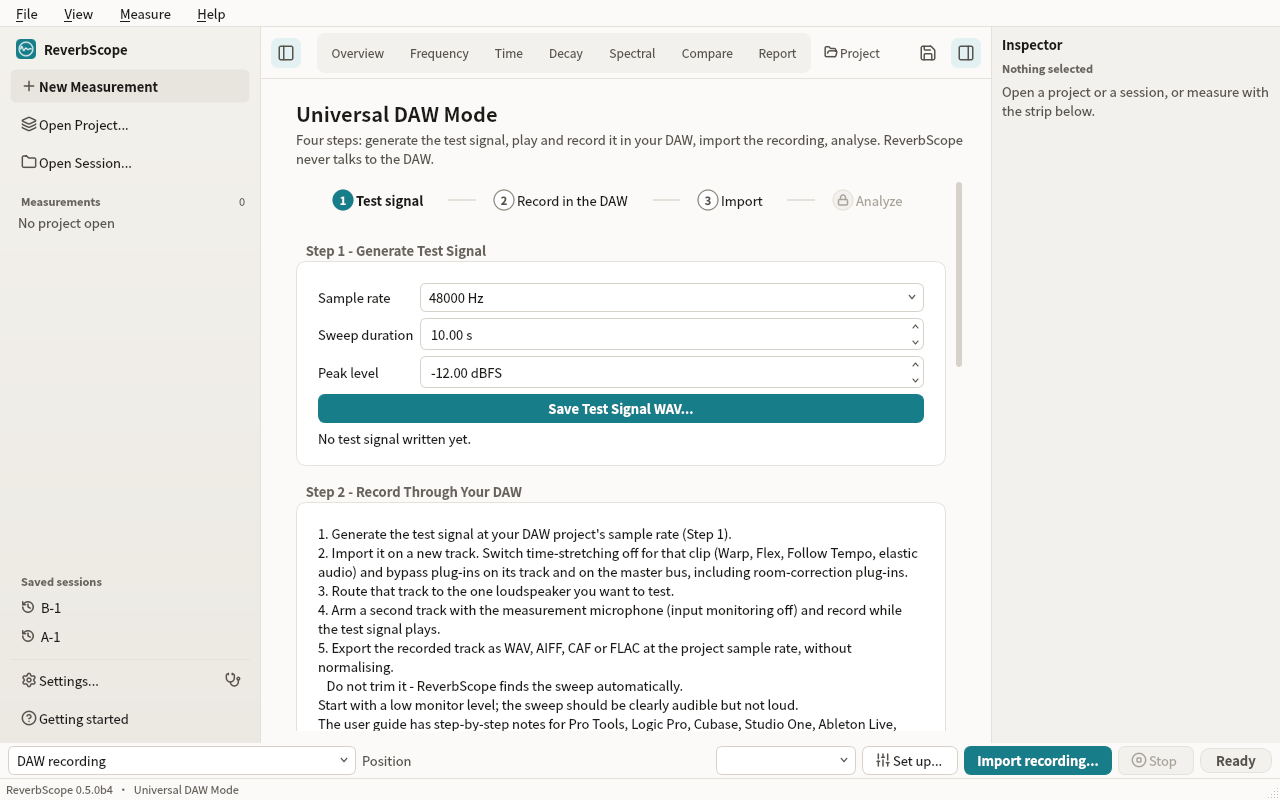
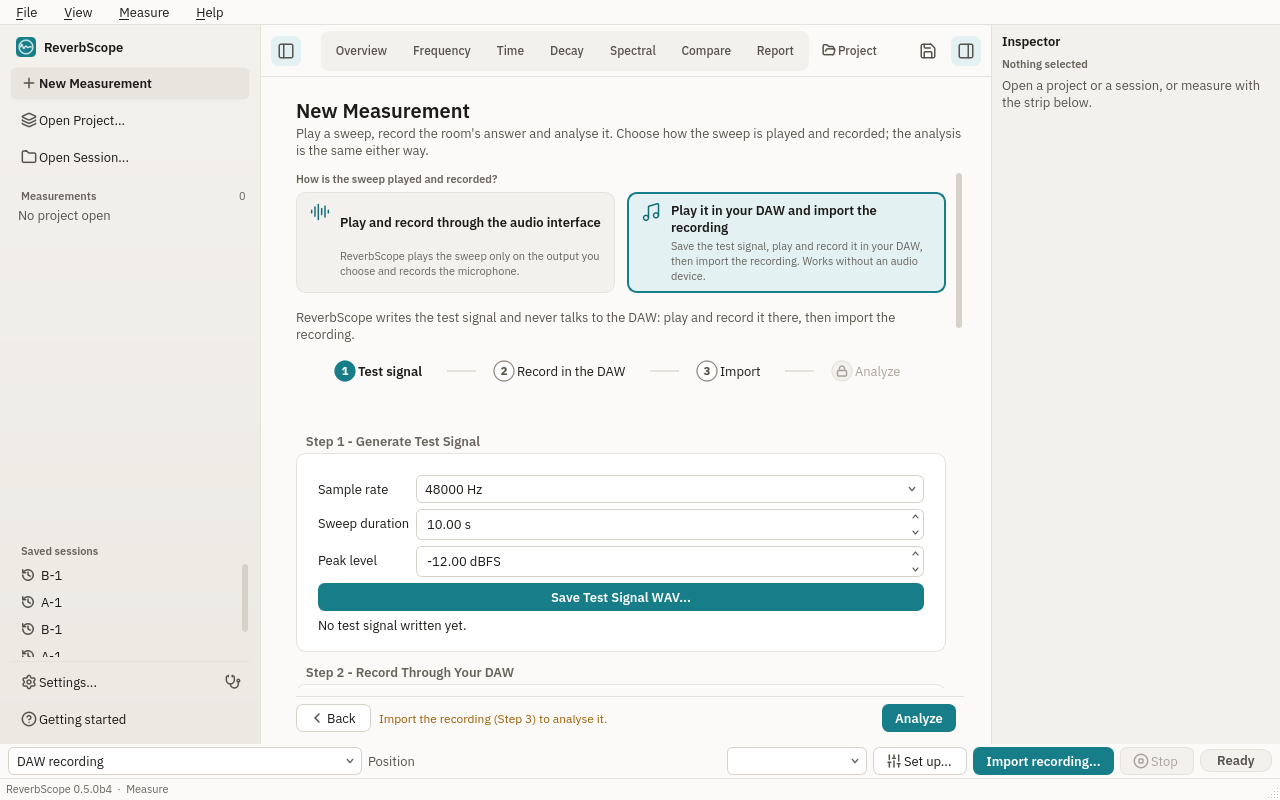
Docs, templates and screenshots for the one New Measurement page
Rename the remaining user-facing "Universal DAW Mode" / "Standalone Mode"
wording in the changelog, design docs, issue templates, release-notes
headers, dependency notes, comparison page and docstrings to the two ways
offered on the New Measurement page. Regenerate the light-sidebar
screenshots and fix a mypy complaint in main_window.py.

Assisted-by: Hark

diff --git a/src/reverbscope/audio/backend.py b/src/reverbscope/audio/backend.py
@@ -1,7 +1,7 @@
 """Audio-backend protocol, device record and backend selection.
 
 ``core`` never imports this module. Front ends call :func:`get_backend` so
-Standalone Mode can run against PortAudio or the synthetic ``fake`` backend.
+A take through the audio interface can run against PortAudio or the synthetic ``fake`` backend.
 """
 
 from __future__ import annotations
@@ -131,7 +131,7 @@ class AudioBackend(Protocol):
 
 @dataclass(frozen=True)
 class ChannelPlan:
-    """How Standalone Mode's hardware inputs map onto the analysed recording.
+    """How the hardware inputs of a take through the interface map onto the analysed recording.
 
     Two conventions meet here and must not be mixed: hardware channels of the
     interface are **1-based** (what the user reads on the front panel and what

diff --git a/src/reverbscope/__init__.py b/src/reverbscope/__init__.py
@@ -5,7 +5,7 @@ The package is organised core-first:
 * :mod:`reverbscope.core` -- pure DSP functions (sweep, deconvolution, decay, ...).
 * :mod:`reverbscope.models` -- data models (settings, results, measurement session).
 * :mod:`reverbscope.io` -- WAV and session storage.
-* :mod:`reverbscope.audio` -- optional audio device access for Standalone Mode.
+* :mod:`reverbscope.audio` -- optional audio device access for takes through the audio interface.
 * :mod:`reverbscope.interpretation` -- recording-engineer oriented explanations.
 * :mod:`reverbscope.cli` / :mod:`reverbscope.ui` -- thin front ends over the core.
 

diff --git a/src/reverbscope/edition.py b/src/reverbscope/edition.py
@@ -4,7 +4,7 @@ One code base, two defaults:
 
 * **developer** — a source checkout or a ``pip`` install: debugging tools are
   on (the GUI's Developer menu with the audio-device inspector and the
-  environment report, advanced stream options in Standalone Mode). Developers
+  environment report, advanced stream options for takes through the audio interface). Developers
   extend ReverbScope through its entry points (``reverbscope.exporters``) and the
   Python API.
 * **user** — the desktop bundles and installers: the same measurement, with

diff --git a/src/reverbscope/ui/main_window.py b/src/reverbscope/ui/main_window.py
@@ -132,8 +132,8 @@ class MainWindow(QMainWindow):
         self.workspace = AnalysisWorkspace(views)
         #: The workspace's stack: start panel, set-up pages, every view.
         self.stack = self.workspace.stack
-        for page in (self.home, self.measure):
-            self.workspace.add_page(page)
+        for setup in (self.home, self.measure):
+            self.workspace.add_page(setup)
         self.views = self.workspace.views
         compare = self.views["compare"]
         project = self.views["project"]

diff --git a/src/reverbscope/demo.py b/src/reverbscope/demo.py
@@ -1,6 +1,6 @@
 """Synthetic demo: try the whole workflow without an interface or a microphone.
 
-:func:`run_demo` writes the same files a real Universal DAW Mode measurement
+:func:`run_demo` writes the same files a real measurement played in a DAW
 produces -- a sweep WAV with its sidecar and one "recorded" WAV per microphone
 position -- but the recordings are *simulated*: the sweep is convolved with a
 made-up room impulse response and noise is added. Both positions are then

diff --git a/src/reverbscope/diagnostics.py b/src/reverbscope/diagnostics.py
@@ -179,7 +179,7 @@ def audio_callback_check() -> str:
     and executable for it, which the macOS hardened runtime refuses unless
     the app has ``com.apple.security.cs.allow-unsigned-executable-memory``
     (cffi documentation, "Callbacks (old style)"); SELinux can refuse it too.
-    A failure here means Standalone Mode cannot record.
+    A failure here means a take through the audio interface cannot record.
     """
     try:
         import _cffi_backend

diff --git a/src/reverbscope/audio/__init__.py b/src/reverbscope/audio/__init__.py
@@ -1,4 +1,4 @@
-"""Audio device access for Standalone Mode (optional; needs ``sounddevice``)."""
+"""Audio device access for takes through the audio interface (optional; needs ``sounddevice``)."""
 
 from __future__ import annotations
 

diff --git a/docs/design/light-sidebar/IMPLEMENTATION.md b/docs/design/light-sidebar/IMPLEMENTATION.md
@@ -8,7 +8,7 @@
 > 位置写法：**侧栏**（左栏）、**工具栏**（52 px 统一工具栏，含分段视图组）、
 > **检查器**（右栏，宽度 < 1100 px 时默认收起）、**测量栏**（底部的设备与
 > 开始/停止条）、**菜单**（文件 / 视图 / 测量 / 帮助 / 开发者）、**起始面板**、
-> **独立模式页**、**DAW 模式页**。快捷键写 Windows/Linux 形式，macOS 上
+> **新测量页**（顶部选择「通过音频接口播放并录音」或「在 DAW 中播放，导入录音」，下方是该方式的步骤、两种方式共用的测量信息与录音配置，以及固定在底部的操作栏；下文的「接口步骤」「DAW 步骤」指两种方式各自的部分）。快捷键写 Windows/Linux 形式，macOS 上
 > Ctrl 显示为 ⌘。
 >
 > 截图在 [docs/images/gui-light-sidebar/](../../images/gui-light-sidebar/)，由
@@ -26,18 +26,18 @@
 
 | # | 能力 | 状态 | 界面位置 |
 |---|---|---|---|
-| A1 | ESS 扫频生成 | GUI | 独立模式页 ▸ 测试信号（时长、峰值电平、采样率）；DAW 模式页 ▸ 步骤 1「保存测试信号 WAV…」；测量栏 ▸ 采样率 |
-| A2 | 独立模式 | GUI | 起始面板卡片「音频接口」；测量 ▸ 独立模式（Ctrl+Shift+2）；测量栏模式「音频接口」；独立模式页步骤条「连接设备 → 信号与电平 → 测量」。输出设备不预选、不提供“系统默认”，未选输出时开始按钮禁用并在页面和测量栏写明原因（页面的「返回 · 原因 · 停止 · 开始测量」是固定在滚动区下方的操作栏，960×640 也在视野内；原因在按钮之间放不下两行时移到按钮上方），`start_measurement` 本身也拒绝（OUT-1…5）；合成演示 / fake 后端不受此限制 |
-| A3 | 电平安全确认 SAFE | GUI | 独立模式页 ▸ 测试信号：高于 −12 dBFS 时出现确认条和复选框，开始按钮原因逐字引用该复选框；任何电平改动、新建测量、停止都会清除确认（D-7） |
+| A1 | ESS 扫频生成 | GUI | 新测量页 ▸ 接口步骤 ▸ 测试信号（时长、电平）、DAW 步骤 ▸ 步骤 1「保存测试信号 WAV…」；两种方式的采样率和扫频时长互相跟随；测量栏 ▸ 采样率 |
+| A2 | 通过音频接口播放并录音 | GUI | 起始面板卡片「音频接口」；测量 ▸ 通过音频接口播放并录音（Ctrl+Shift+2）；新测量页顶部卡片；测量栏列表「音频接口」；接口步骤条「连接设备 → 信号与电平 → 测量」。没有任何设备时原因写「未找到音频设备；仍可导入录音。」并显示「改为导入录音」按钮。输出设备不预选、不提供“系统默认”，未选输出时开始按钮禁用并在页面和测量栏写明原因（页面的「返回 · 原因 · 停止 · 开始测量」是固定在滚动区下方的操作栏，960×640 也在视野内；原因在按钮之间放不下两行时移到按钮上方），`start_measurement` 本身也拒绝（OUT-1…5）；合成演示 / fake 后端不受此限制 |
+| A3 | 电平安全确认 SAFE | GUI | 新测量页 ▸ 接口步骤 ▸ 测试信号：高于 −12 dBFS 时出现确认条和复选框，开始按钮原因逐字引用该复选框；任何电平改动、新建测量、停止都会清除确认（D-7） |
 | A4 | 双设备时钟警告 | GUI | 输入、输出不是同一设备时开始前弹出警告，默认按钮“不测” |
-| A5 | 通用 DAW 模式（4 步） | GUI | 起始面板卡片「DAW 录音」；测量 ▸ 通用 DAW 模式（Ctrl+Shift+1）；测量栏模式「DAW 录音」+「导入录音…」；DAW 模式页四个步骤组 + 步骤条（第 4 步在导入录音前显示锁） |
-| A6 | DAW 设置提示表 | GUI | DAW 模式页 ▸ 步骤 2 说明；测量健康的修复步骤 |
+| A5 | 在 DAW 中播放，导入录音（4 步） | GUI | 起始面板卡片「DAW 录音」；测量 ▸ 在 DAW 中播放，导入录音（Ctrl+Shift+1）；新测量页顶部卡片；测量栏列表「DAW 录音」+「导入录音…」；DAW 步骤 1–3 + 步骤条（第 4 步「分析」= 共用的测量信息与固定操作栏里的「分析」，导入录音前显示锁并在按钮旁写明原因）；不需要音频设备或 PortAudio |
+| A6 | DAW 设置提示表 | GUI | 新测量页 ▸ DAW 步骤 2 说明；测量健康的修复步骤 |
 | A7 | 导入外部脉冲响应 | CLI | `reverbscope analyze-ir`，GUI 不画入口；工具栏 ▸ 报告 ▸「仅命令行」列出可复制的命令 |
-| A8 | 测量进度 | GUI | 测量栏进度条和阶段文字；独立模式页进度条；运行中的忙碌锁（BUSY）锁住新建、打开、保存、设置，并给出原因 |
+| A8 | 测量进度 | GUI | 测量栏进度条和阶段文字；新测量页进度条；运行中的忙碌锁（BUSY）锁住新建、打开、保存、设置和页面顶部的方式选择，并给出原因 |
 | A9 | 实时波形 / 电平表 / 输入预检 | 未实现 | — |
-| A10 | 卷尺测量 | GUI | 独立模式页和 DAW 模式页步骤 4 ▸ 摆位输入（扬声器距离、话筒高度、气温） |
-| A11 | 测量元数据 | GUI | 独立模式页、DAW 模式页 ▸「测量元数据（可选）」；测量栏 ▸ 位置 |
-| A12 | 回采补偿 | GUI | 独立模式页 ▸ 音频设备 ▸ 回采声道；测量栏「高级」▸ 回采声道；DAW 模式页步骤 3 ▸ 回采声道；检查器 ▸ 测量条件 |
+| A10 | 卷尺测量 | GUI | 新测量页 ▸ 共用的「卷尺测量（可选）」（扬声器距离、话筒高度、气温） |
+| A11 | 测量元数据 | GUI | 新测量页 ▸ 共用的「测量元数据（可选）」；测量栏 ▸ 位置 |
+| A12 | 回采补偿 | GUI | 新测量页 ▸ 接口步骤 ▸ 音频设备 ▸ 回采声道；测量栏「高级」▸ 回采声道；DAW 步骤 3 ▸ 回采声道；检查器 ▸ 测量条件 |
 | A13 | 播放速度诊断 | GUI | 测量健康（总览、检查器）里的“播放速度”项 |
 | A14 | 演示 / 合成数据 | CLI | `reverbscope demo`（报告 ▸「仅命令行」列出）；打开的合成会话在侧栏、检查器和页面横幅上标“合成” |
 
@@ -68,7 +68,7 @@
 | C1 | 测量健康（10 项） | GUI | 总览 ▸ 测量健康；检查器 ▸ 测量健康 |
 | C2 | 健康 → 视图跳转 | GUI | 健康项旁的「显示 <视图>」按钮（总览、检查器） |
 | C3 | 分析失败指引 | GUI | 分析失败时的错误对话框和页面状态行（`workers.py` 调 `failure_guidance`） |
-| C4 | 录音配置（7 种） | GUI | 独立模式页 ▸ 测试信号、DAW 模式页步骤 4 ▸ 录音配置 +「它看什么？」；起始面板底部配置说明；项目视图 ▸ 配置；设置 ▸ 默认配置 |
+| C4 | 录音配置（7 种） | GUI | 新测量页 ▸ 共用的「分析」▸ 录音配置 +「它看什么？」；起始面板底部配置说明；项目视图 ▸ 配置；设置 ▸ 默认配置 |
 | C5 | 解读 findings | GUI | 总览；检查器 |
 | C6 | 用户类型 | 未实现 | — |
 
@@ -131,13 +131,13 @@ FEATURES.md 的统计写的是 52 项；它的表里实际是 53 行（A14、B15
 | `save` | 工具栏右 | 保存会话（Ctrl+S） |
 | `folder-open` | 工具栏「项目」 | 项目视图（Ctrl+8） |
 | `chevron-down` | 工具栏（窄窗口） | 视图组放不下时，末尾的组收进这个“全部视图”菜单（当前组不收），工具栏不横向滚动 |
-| `audio-lines` | 起始面板卡片「音频接口」 | 独立模式页 |
-| `music` | 起始面板卡片「DAW 录音」 | DAW 模式页 |
+| `audio-lines` | 起始面板卡片「音频接口」；新测量页顶部卡片 | 通过音频接口播放并录音 |
+| `music` | 起始面板卡片「DAW 录音」；新测量页顶部卡片 | 在 DAW 中播放，导入录音 |
 | `git-compare` | 起始面板「对比两个会话…」 | 对比视图 |
 | `mic` | 起始面板底部 | 录音配置说明（只是标记） |
 | `sliders-vertical` | 测量栏「设置…」 | 打开当前模式的设置页 |
-| `square-stop` | 测量栏、独立模式页「停止」 | 停止并静音输出（Esc） |
-| `chevron-left` | 独立模式页「返回」 | 回到之前的视图；没有打开的测量时回到起始面板 |
+| `square-stop` | 测量栏、新测量页「停止」 | 停止并静音输出（Esc） |
+| `chevron-left` | 新测量页「返回」 | 回到之前的视图；没有打开的测量时回到起始面板 |
 | `check` / `activity` | 步骤条；复选框 | 已完成 / 进行中 |
 | `copy` | 报告 ▸「复制命令」 | 把“仅命令行”的命令复制到剪贴板 |
 | `circle-check` / `info` / `triangle-alert` / `circle-x` | 浮动提示 | 提示的语气（完成 / 说明 / 注意 / 错误），文字另写 |
@@ -176,7 +176,7 @@ cherry-pick：
 | 检查器里可见的「设为基准」 | 检查器 ▸ 对比，没有基准时显示按钮 | `test_the_inspector_offers_use_as_baseline` |
 | 报告里列出 CLI 专有功能的命令 | 报告 ▸「仅命令行」，按平台加引号，「复制命令」 | `test_cli_commands_*`、`test_every_listed_command_is_a_real_cli_command` |
 | 测量名中间省略 | 工具栏副标题（当前测量名）中间省略；侧栏列表本来就是中间省略 | `test_the_measurement_name_elides_in_the_middle` |
-| 960×640 中文下开始按钮的原因可见 | 独立模式页操作栏固定在滚动区外（SPEC §8.1），窄时原因移到按钮上方 | `test_the_run_reason_is_in_view_at_960_by_640` |
+| 960×640 中文下开始按钮的原因可见 | 新测量页操作栏固定在滚动区外（SPEC §8.1），窄时原因移到按钮上方 | `test_the_run_reason_is_in_view_at_960_by_640` |
 | 关键数值 / 读数用等宽字体；刻度文字变淡 | 读数、刻度（11 px）、检查器关键数值用已安装的等宽字体；刻度本来就是 `muted` 色 | `test_readouts_use_an_installed_monospace_face` |
 | （#97 遗留）窄窗口当前是“项目”时最左的组被截 | 放不下的组从末尾收进“全部视图”，当前组不收，工具栏不滚动 | `test_no_view_tab_is_cut_whichever_view_is_current` |
 

diff --git a/docs/design/GUI_2_ARCHITECTURE.md b/docs/design/GUI_2_ARCHITECTURE.md
@@ -69,8 +69,9 @@ to the command line.
   splitter state that does not restore, or that leaves the chart under
   320 px, is replaced by the default sizes.
 * `MainWindow.stack` is the workspace's `QStackedWidget`. It holds the start
-  panel, the two measurement set-up pages (Universal DAW Mode and Standalone
-  Mode), every analysis view, the project view and the compare view. The
+  panel, the one New Measurement page (`MeasurePage`: a choice of how the
+  sweep is played and recorded, the steps of that way in, shared details and
+  a pinned action bar), every analysis view, the project view and the compare view. The
   product GUI has no Demo mode. `show_mode("demo")` remains for tests and
   the fake backend; it is not in the Measure menu, the strip, or the
   first-measurement card.
@@ -81,11 +82,12 @@ to the command line.
   `default_views()`; `Ctrl+0` opens Compare. The view bar groups them
   (Overview, Frequency, Time, Decay, Spectral, Compare, Report).
   Spectral has a second selector for the spectrogram, the waterfall and
-  noise. Project is a separate button, not an analysis group. The
-  measurement set-up pages are `Ctrl+Shift+1` (Universal DAW Mode) and
-  `Ctrl+Shift+2` (Standalone Mode). `QKeySequence` is used so macOS shows
+  noise. Project is a separate button, not an analysis group. The Measure
+  menu opens New Measurement on either way in: `Ctrl+Shift+1` (play in your
+  DAW, import the recording) and `Ctrl+Shift+2` (play and record through the
+  audio interface). `QKeySequence` is used so macOS shows
   Command where other systems show Ctrl.
-* Switching views never stops a take. The Standalone page used to stop the
+* Switching views never stops a take. The interface page used to stop the
   take when it was hidden; the measure strip now carries Stop (and `Esc`),
   so the take keeps running while the user looks at another view.
 
@@ -106,10 +108,11 @@ is added to the list beside the take, and a project keeps the unsaved take
 take replaces the previous one once the previous one is saved or
 discarded.
 
-The measure strip mirrors the active set-up page: its device, rate and
+The measure strip mirrors the New Measurement page: its device, rate and
 channel controls share the page's models, so a choice in either place is
 the same choice. **Set up...** opens the page for what the strip does not
-carry (sweep length, level, tape measurements, the DAW files). In DAW mode
+carry (sweep length, level, tape measurements, the DAW files). Its list
+("Audio interface", "DAW recording") is the page's choice. On the DAW way in
 Start reads "Import recording..." and analyses the chosen files. Choosing a
 position in the navigator's menu ("Measure at …") or in the project view
 fills the strip's position and the pages' position and room fields. The

diff --git a/docs/design/light-sidebar/FEATURES.md b/docs/design/light-sidebar/FEATURES.md
@@ -9,10 +9,10 @@
 | # | 能力 | 源码 file:function | 输出 / 参数（单位、默认、范围） | GUI(main) | #91 |
 |---|---|---|---|---|---|
 | A1 | 指数正弦扫频 ESS 生成 | `core/sweep.py:generate_ess`, `measurement_signal`; `models/configuration.py:SweepSettings` | 20 Hz–20 kHz；时长默认 10 s（GUI 1–60 s）；峰值 −12 dBFS（GUI −40…0）；淡入 50 ms / 淡出 10 ms；前静音 1 s、后静音 3 s；采样率 44.1/48/88.2/96/176.4/192 kHz | ✓ | 02、03、12a |
-| A2 | 独立模式（音频接口播放+录音） | `ui/pages.py:StandalonePage`; `audio/playrec.py`; `audio/portaudio.py` | 输入/输出设备、输入声道（话筒）、输出声道（扬声器）、回采声道、采样率；独立模式默认电平 −20 dBFS（`audio/backend.py:DEFAULT_STANDALONE_LEVEL_DBFS`） | ✓ | 02、02b、03、04 |
+| A2 | 通过音频接口播放并录音 | `ui/pages.py:StandalonePage`; `audio/playrec.py`; `audio/portaudio.py` | 输入/输出设备、输入声道（话筒）、输出声道（扬声器）、回采声道、采样率；通过音频接口播放的默认电平 −20 dBFS（`audio/backend.py:DEFAULT_STANDALONE_LEVEL_DBFS`） | ✓ | 02、02b、03、04 |
 | A3 | 电平安全确认（SAFE） | `audio/backend.py:SAFE_MAX_LEVEL_DBFS = −12`; `ui/pages.py` 复选框 | 高于 −12 dBFS 必须勾选“我已调低监听音量”；`settings.save_settings` 永不保存确认 | ✓ | 03、10b |
 | A4 | 双设备时钟警告 | `ui/pages.py:separate_clocks_box` | 输入、输出不是同一设备时警告，默认按钮是“不测” | ✓ | 02（就绪检查“同一设备，一个时钟”） |
-| A5 | 通用 DAW 模式（4 步） | `ui/pages.py:DawModePage`, `DAW_INSTRUCTIONS`; `io/wav.py:write_sweep_file` | 步骤 1 生成测试信号 / 2 在 DAW 中录制 / 3 导入录音（录音、参考扫频、话筒声道“自动（电平最高）”、回采声道）/ 4 分析（录音配置） | ✓ | 12a、12b、12c |
+| A5 | 在 DAW 中播放，导入录音（4 步） | `ui/pages.py:DawModePage`, `DAW_INSTRUCTIONS`; `io/wav.py:write_sweep_file` | 步骤 1 生成测试信号 / 2 在 DAW 中录制 / 3 导入录音（录音、参考扫频、话筒声道“自动（电平最高）”、回采声道）/ 4 分析（录音配置） | ✓ | 12a、12b、12c |
 | A6 | DAW 设置提示表 | `health.py:DAW_SAMPLE_RATE_SETTINGS`, `DAW_STRETCH_SETTINGS` | 各 DAW 设采样率、关时间伸缩的位置 | ✓（健康修复步骤里） | 12b |
 | A7 | 导入外部脉冲响应 | `core/pipeline.py:analyze_impulse_response`; CLI `analyze-ir` | 不反卷积 | **CLI** | 不画入口（已从首页移除） |
 | A8 | 测量进度 | `ui/pages.py` `QProgressBar` 0–100 | 只有百分比 | ✓ | 04 |

diff --git a/CHANGELOG.md b/CHANGELOG.md
@@ -22,8 +22,8 @@ All notable changes to ReverbScope are documented here. The format follows
   desktop Decay view and a "Decay slopes" row in the inspector). EDT, T20,
   T30, RT60 and every other number are unchanged. Methodology §3c, ADR 0004.
 - **One-third-octave decay bands (opt-in).** `--third-octave` on `analyze`,
-  `measure` and `analyze-ir`, and a check box on both desktop measurement
-  pages, add the IEC 61260-1 one-third-octave bands inside the octave bands
+  `measure` and `analyze-ir`, and a check box on the desktop New Measurement
+  page, add the IEC 61260-1 one-third-octave bands inside the octave bands
   (50 Hz–10 kHz by default), each with EDT, T20, T30 and the double-slope
   fit, analysed exactly as an octave band with its own bandwidth. Off by
   default: a default analysis runs no extra work, and its octave results and
@@ -46,6 +46,27 @@ All notable changes to ReverbScope are documented here. The format follows
   repository.
 
 ### Changed
+- **One New Measurement flow instead of two modes.** The desktop app no longer
+  has a "Universal DAW Mode" page and a "Standalone Mode" page. **New
+  Measurement** is one page: at the top the user chooses how the sweep is
+  played and recorded, *Play and record through the audio interface* or *Play
+  it in your DAW and import the recording*; the page then shows only the
+  steps of that way in, and one shared set of measurement metadata, tape
+  measurements, recording profile and the one-third-octave option, with Back,
+  the reason a button is off, Stop, *Run Measurement* or *Analyze* in one
+  pinned action bar. The sample rate and sweep duration carry over when the
+  choice changes; the levels stay separate (the interface keeps its −20 dBFS
+  default and the SAFE acknowledgement). With no audio device the interface
+  steps say "you can still import a recording" and offer *Import a recording
+  instead*; the import works without PortAudio. The Measure menu entries keep
+  their shortcuts (Ctrl+Shift+1 DAW import, Ctrl+Shift+2 audio interface)
+  and are named after the two ways in. No mode name is left in the GUI, the
+  CLI help (`devices`, `measure`, `--backend`), the "no audio device"
+  diagnostics, the `measure` plan title, the session report's *Measured with*
+  row, the macOS microphone prompt, the issue forms or the user docs. The
+  analysis, every number, `session.json` (`mode` stays `universal_daw` /
+  `standalone`), the file formats, the schemas and the CLI commands and flags
+  are unchanged.
 - **Desktop app reads like a measurement tool.** Chart axes no longer
   rescale: pyqtgraph drew the reverberation-by-band chart's 0.4–0.8 s as
   "400–800" with "(x0.001)" in the axis title; ticks now stay in the
